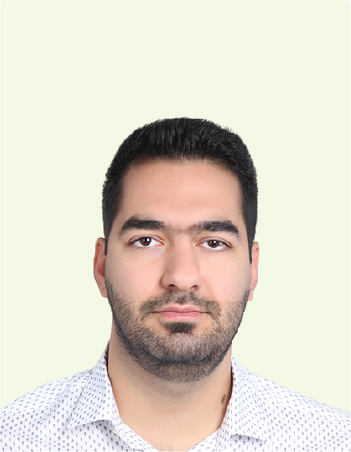
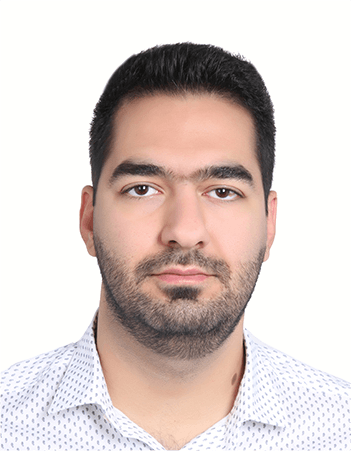
updated team images and fixed features section

diff --git a/src/App.scss b/src/App.scss
@@ -1,7 +1,7 @@
 // General Settings
 body{
   font-family: 'Poppins', sans-serif;
-  font-size: 16px;
+  font-size: 1rem;
   font-weight: 400;
   margin: 0;
   padding: 0;
@@ -108,7 +108,7 @@ margin-bottom: 1rem;
 
 // About Settings
 
-.About, .Features, #team, #contactus{
+.About, .Features, #contactus{
   margin-top: 112px;
 }
 
@@ -131,6 +131,67 @@ margin-bottom: 1rem;
   font-family: SafiarSignature;
   margin: 0;
 }
+
+// New Features Blocks config -- START
+
+.Features_container{
+  margin-right: 3rem;
+  margin-left: 3rem;
+}
+
+.Features_Line{
+  border-left: 3px black solid;
+  height: 75px;
+}
+
+.Features_container_block_number p{
+  color: #7CA20A;
+  text-align: center;
+  font-size: 4rem;
+  font-weight: bold;
+  margin: 1rem;
+}
+
+.Features_container_content h2{
+  color: #29600B;
+  font-size: 1.2rem;
+  text-align: center;
+}
+
+.Features_container_content p{
+text-align: center;
+font-size: 0.8rem;
+}
+
+.Features_container_block{
+  position: relative;
+        display: inline-block; 
+        margin-bottom: 8rem;
+}
+
+.Features_container_block_number{
+   position: absolute;
+        z-index: 999;
+        margin: 0 auto;
+        left: 0;
+        right: 0;
+        top: -3%;
+         text-align: center;
+        width: 60%;
+}
+
+.Features_Line{
+  //  position: absolute;
+        z-index: 999;
+        margin: 0 auto;
+        left: 0;
+        right: 0;
+        top: 20rem;
+         text-align: center;
+        width: 0;
+}
+
+// New Features Blocks config -- END
 
 .lineDiv_horizontal{
   align-items: center;
@@ -168,7 +229,7 @@ margin-bottom: 1rem;
 
 .content_feature h2{
   color: #7CA20A;
-  font-family: 'Open Sans', sans-serif;
+  // font-family: 'Open Sans', sans-serif;
 }
 
 // Features Settings
@@ -266,14 +327,14 @@ margin-bottom: 1rem;
 
 .Team_Name h2{
   color: #7CA20A;
-  font-family: 'Open Sans', sans-serif;
-  font-size: 24px;
+  // font-family: 'Open Sans', sans-serif;
+  font-size: 1.5rem;
   font-weight: 600;
   margin: 0;
 }
 
 .Team_Position h3{
-  font-size: 16px;
+  font-size: 1rem;
   font-weight: 100;
   margin: 0;
 }
@@ -316,7 +377,7 @@ margin-right: 0.2rem;
 .Video_Content h2{
   text-align: right;
     color: #7CA20A; 
-    font-family: 'Open Sans', sans-serif;
+    // font-family: 'Open Sans', sans-serif;
   font-size: 24px;
   font-weight: 600;
   margin: 0;
@@ -394,14 +455,14 @@ margin-right: 0.2rem;
 .contactForm input, textarea{
   width: 300px;
   margin-bottom: 1rem;
-  // resize: none;
-    border: 3px solid #ccc;
+  resize: none;
+    border: none;
     border-radius: 0.2rem;
 
 }
 
 .contactForm input:focus, textarea:focus {
-  border: 3px solid #555;
+  // border: 3px solid #555;
 }
 
 .Contacts_Title{
@@ -528,6 +589,8 @@ text-align: center;
     // background-color: lightblue;
   }
 
+ 
+
 #burguerButton{
   border: none;
   font-size: 2rem;
@@ -642,10 +705,10 @@ text-align: center;
 }
 
 .content_feature h2, .Team_Name h2, .CaptionFarmer p {
-  font-size: 16px;
+  font-size: 1.2rem;
 }
 .content_feature p, .Team_Position h3, .CaptionText p {
-  font-size: 14px;
+  font-size: 0.8rem;
 }
 .verticalLine{
   height: 75px;
@@ -700,6 +763,38 @@ text-align: center;
   white-space: nowrap;
   width: 1px;
   }
+
+   .Features_container{
+    display: flex;
+    justify-content: space-around;
+  }
+
+  .Features_container_content h2, .Features_container_content p{
+    text-align: left;
+    // margin-left: 3rem;
+  }
+
+  .Features_Line{
+    height: 100px;
+    margin: 0;
+    // margin-left: 3rem;
+  }
+  .Features_container_content h2{
+    // margin-left: 3rem;
+  }
+
+  .Features_container_content p{
+    // padding-left: 3rem;
+    // margin-left: 3rem;
+  }
+
+  .Features_container_block{
+    margin-bottom: 112px;
+    padding-left: 1rem;
+    padding-right: 1rem;
+  }
+
+  
 }
   
 

diff --git a/src/views/Features.js b/src/views/Features.js
@@ -9,8 +9,43 @@ function Features() {
             <div className="lineDiv"></div>
           </div>
         </div>
+      
+        <div className="Features_container">
+          <div className="Features_container_block">
+            <div className="Features_container_block_number"><p>01</p></div>
+            <div className="Features_container_img"><img src='img/img1.png' alt="Man holding phone" /></div>
+            <div className="Features_Line"></div>
+            <div className="Features_container_content">
+              <h2>Farm profile management</h2>
+              <p>You can create and customize the profile of your farm to set a unique identity to serve your customers.</p>
+            </div>
+          </div>
+          <div className="Features_container_block">
+            <div className="Features_container_block_number"><p>02</p></div>
+            <div className="Features_container_img"><img src='img/img2.png' alt="Man holding phone" /></div>
+            <div className="Features_Line"></div>
+            <div className="Features_container_content">
+              <h2>Post listings</h2>
+            <p>You can create a post of your product and view your post listings. You can easily customize your posts through various options.</p>
+            </div>
+          </div>
+          <div className="Features_container_block">
+            <div className="Features_container_block_number"><p>03</p></div>
+            <div className="Features_container_img"><img src='img/img3.png' alt="Man holding phone" /></div>
+            <div className="Features_Line"></div>
+            <div className="Features_container_content">
+              <h2>Inventory management</h2>
+              <p>You can keep track of your iventory and manage the stock to give your customers the most updated information about your products.</p>
+            </div>
+          </div>
+        </div>
+        
 
-      <div className="Features_features">
+
+
+
+
+      {/* <div className="Features_features">
           <div className="Features_features_block">
             <div className="numberFeature">01</div>
             <div className="img_feature"><img src="img/img1.png" alt /></div>
@@ -34,7 +69,7 @@ function Features() {
               <p>You can keep track of your iventory and manage the stock to give your customers the most updated information about your products.</p>
             </div>
           </div>
-        </div>
+        </div> */}
 
       </div>
   );
